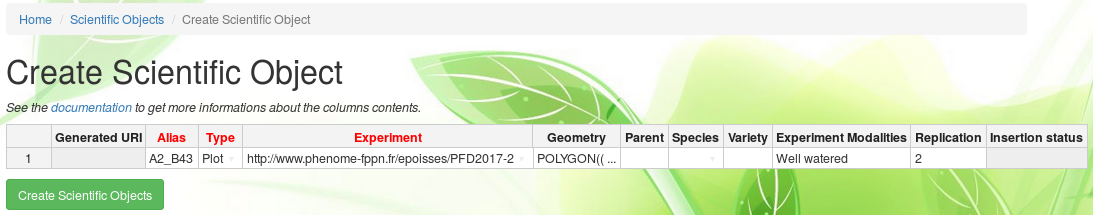
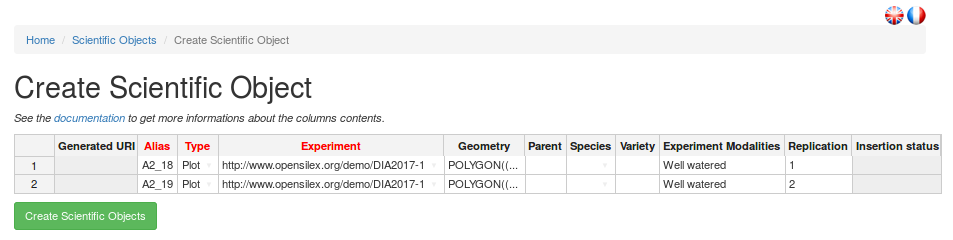
create scientific object section and screenshots adapted to the evolution of the UI (no more message '... objects inserted')

diff --git a/docs/experimental-organization.md b/docs/experimental-organization.md
@@ -541,13 +541,15 @@ The first step in order to import scientific object is usually to create a .csv 
 | :------------- | :------------- | :------------- | :---------- |:------------- | :------------- | :--------- |
 | expX_modY_plotZ       | POLYGON (( ... ... , ... ... ))       | http&#58;//www.phenome-fppn.fr/.../...   | http&#58;//www.phenome-fppn.fr/id/species/...    | e.g. varietyX      | e.g. nitrogen-1     | e.g. 1 (or A-I)     |
 
-The second step is to copy and paste the content of the CSV file in the handsontable form displayed in the `Home / Scientific Objects / Create Scientific Object` menu.
+The second step is to copy and paste the content of the CSV file in the handsontable form displayed in the `Home / Scientific Objects / Create Scientific Object` menu and then click on the <span class="btn btn-success">Create Scientific Objects</span> bottom button to complete the declaration of scientific objects.
 
 ![new-objects-create](img/create-object_handsontable.png)
 
+<!---
 After having pressed the <span class="btn btn-success">Create Scientific Objects</span> bottom button, the number of imported scientific objects is displayed.
 
 ![new-objects-success](img/create-object_result.png)
+--->
 
 ### Visualize scientific objects
 
